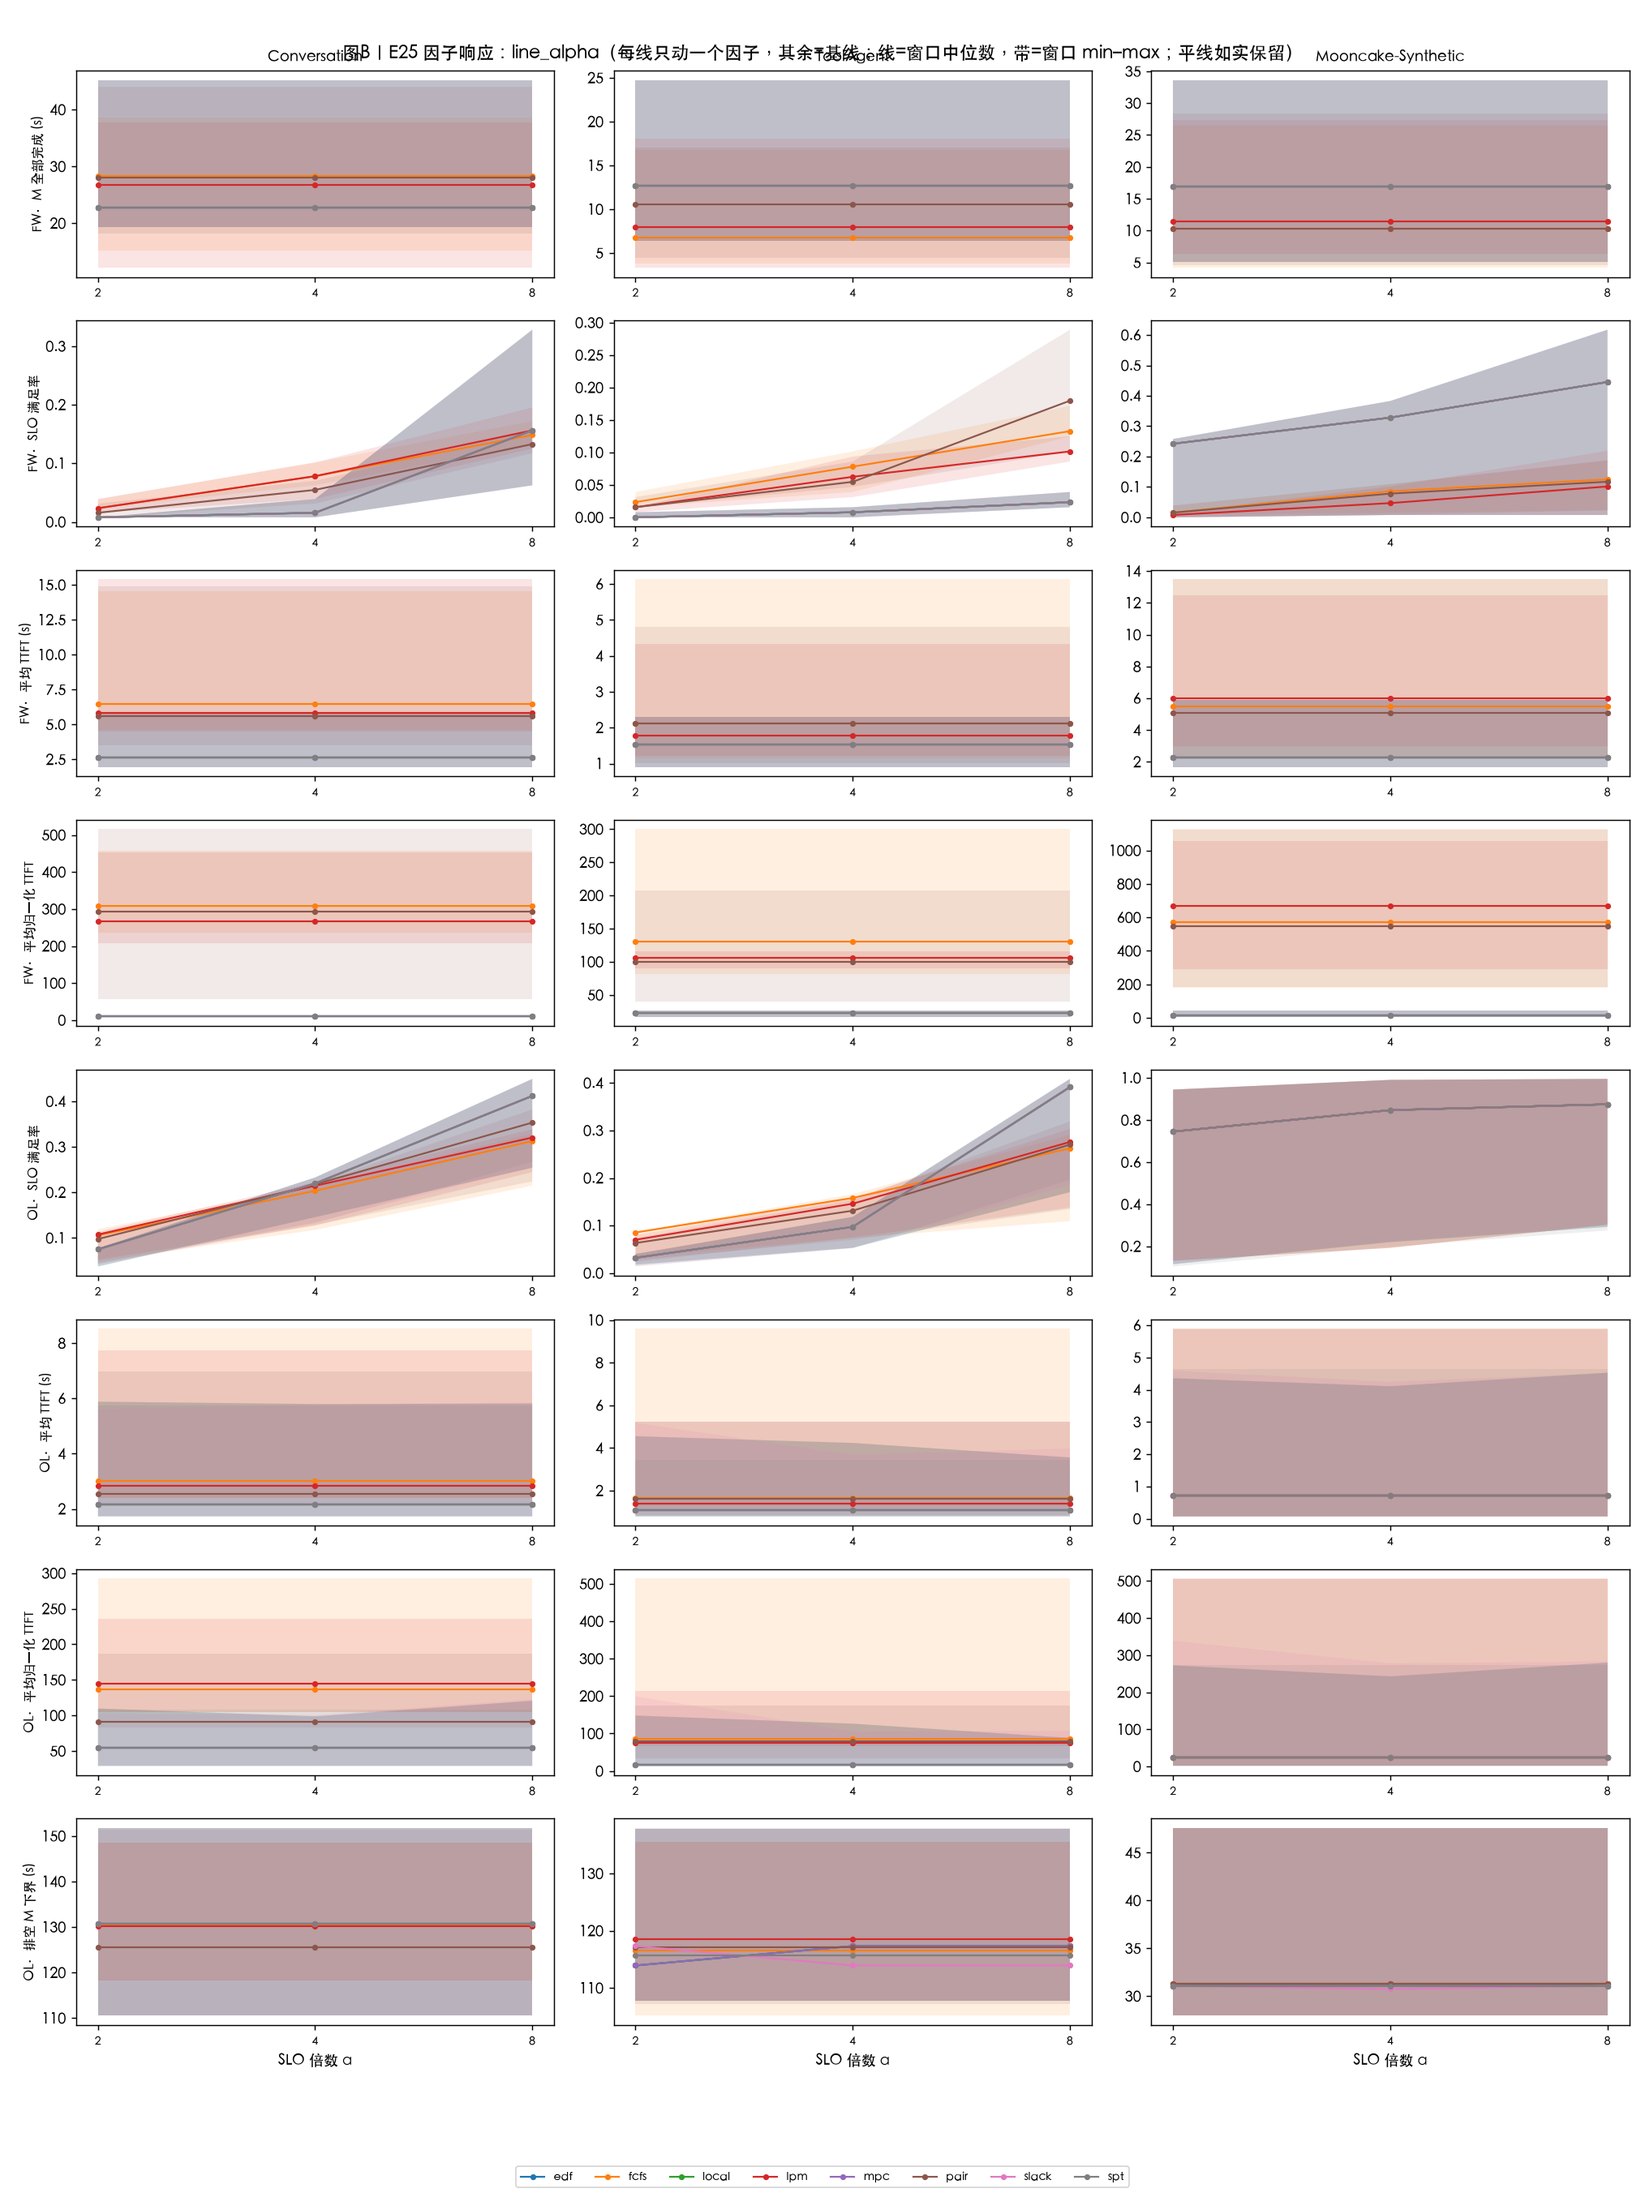
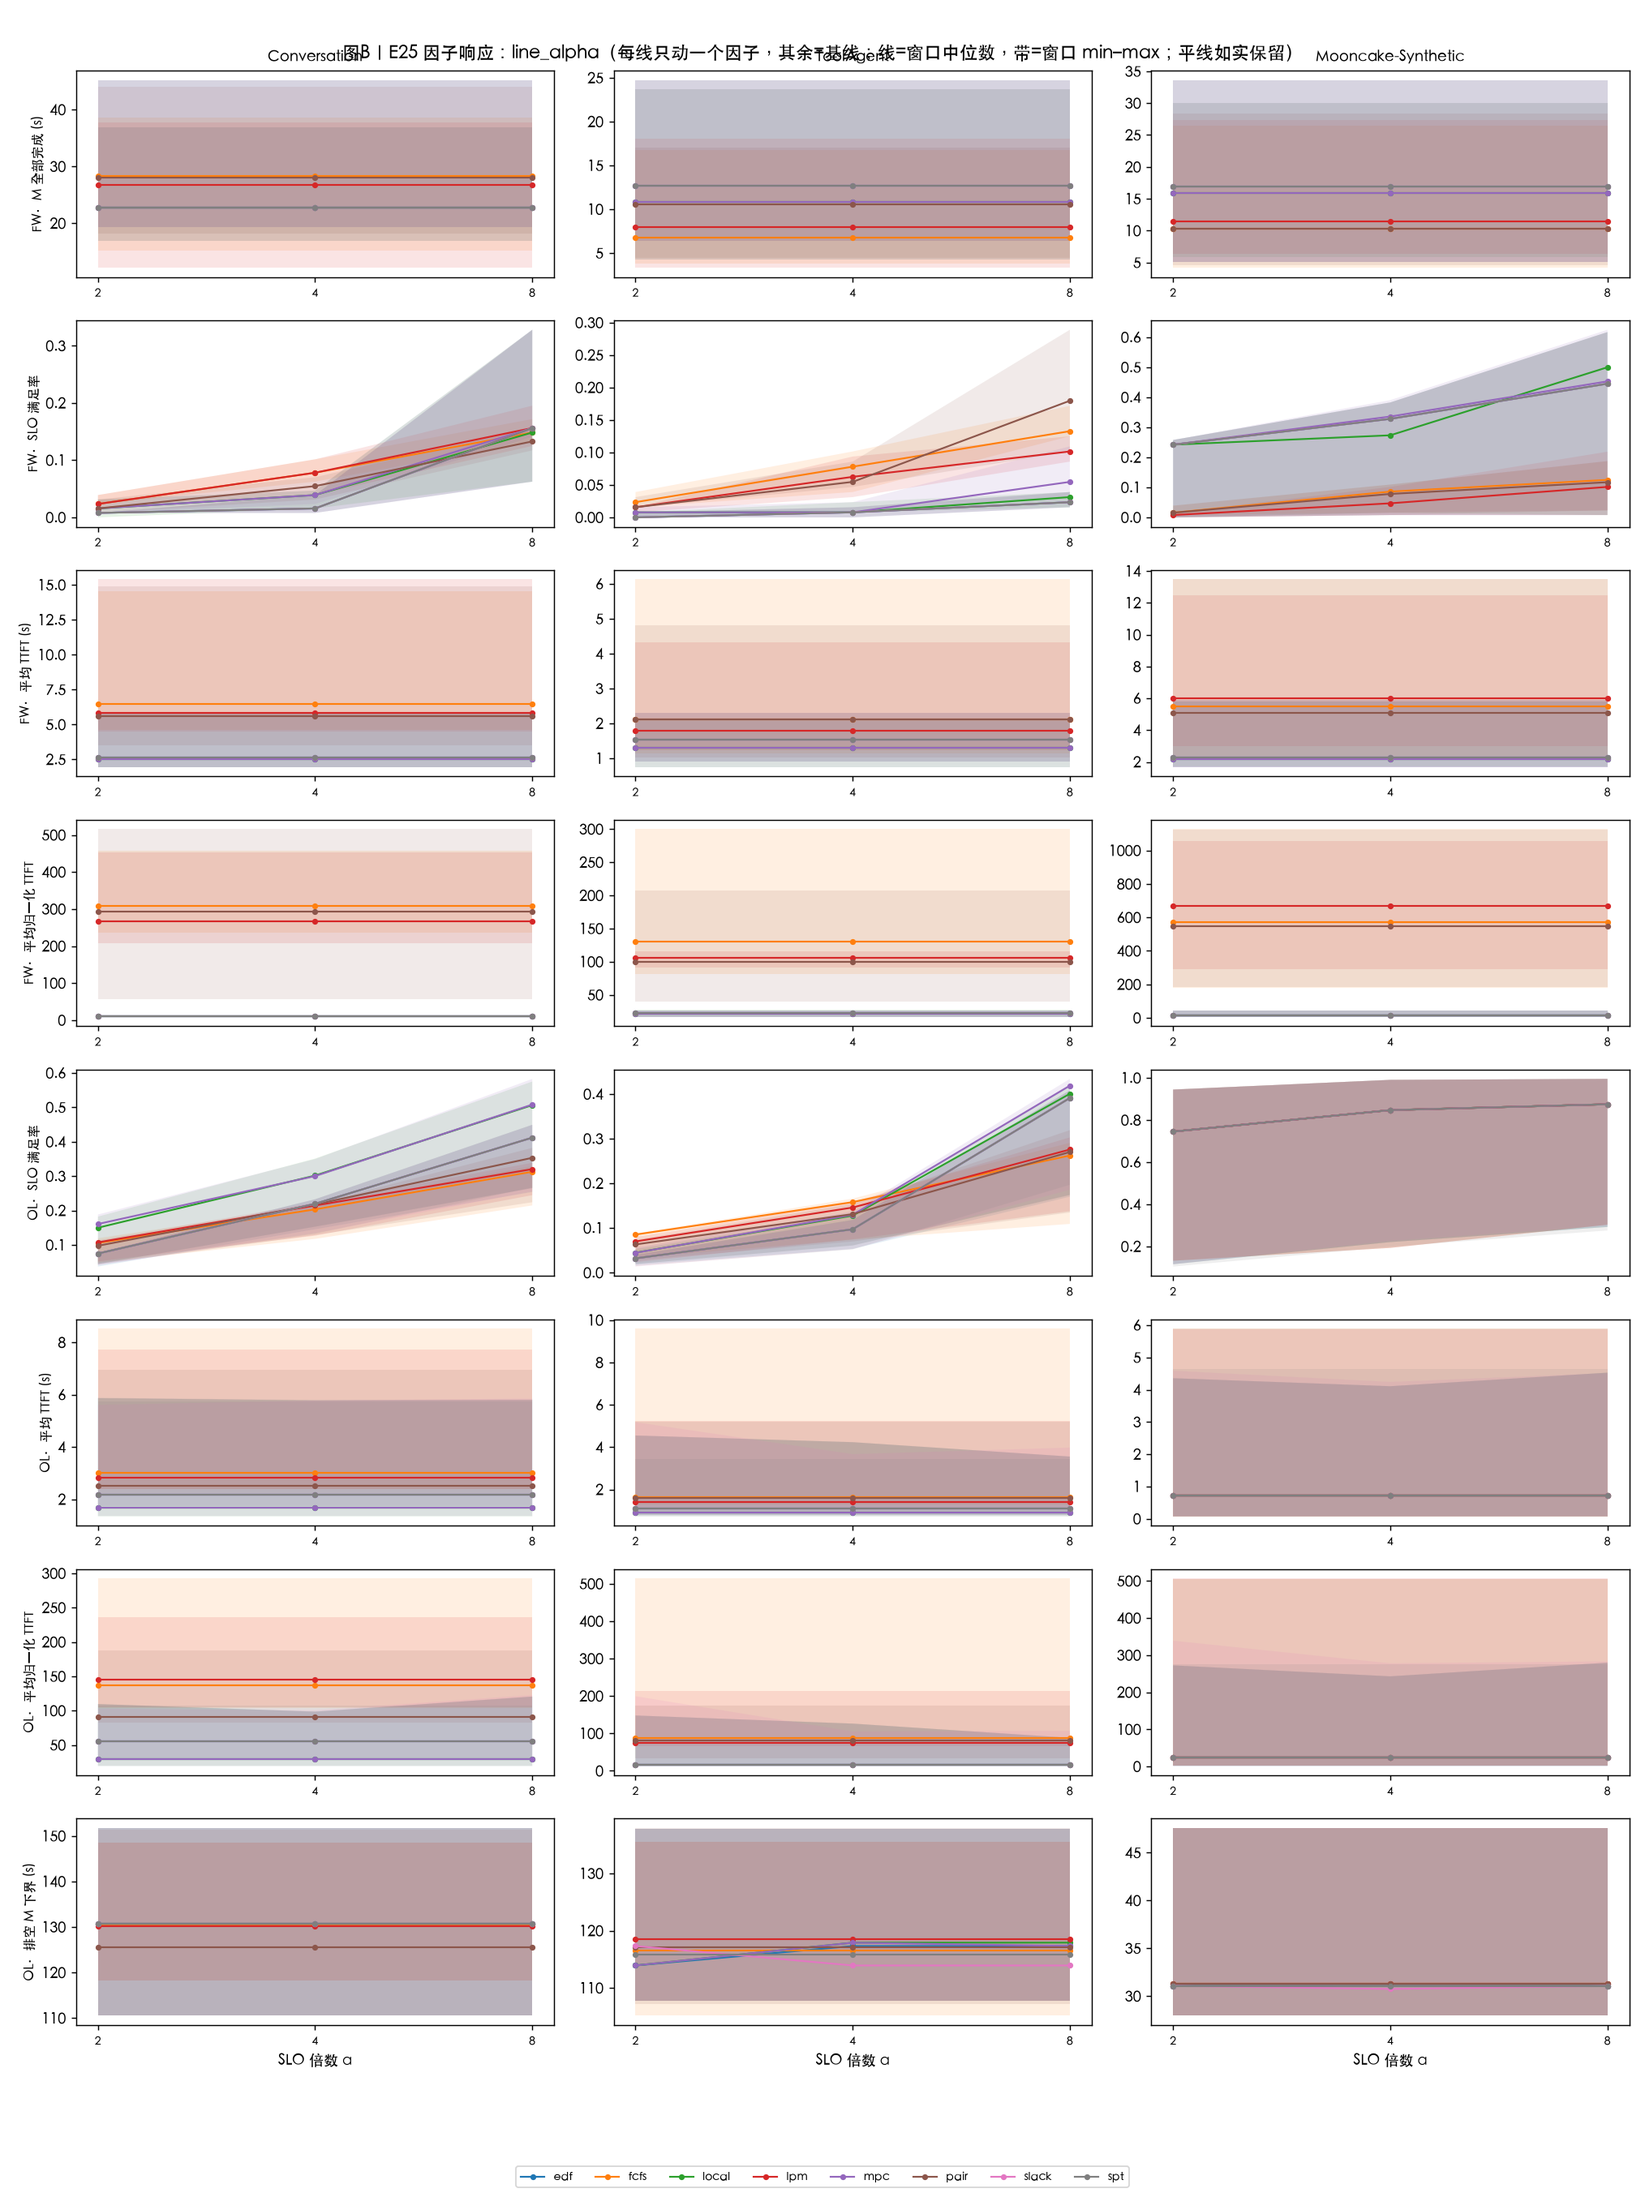
feat(e25.1): 修复后代码全矩阵重跑——MPC 理想上限档的完整收益地图与开销画像
应用户裁定：①全部数据改为修复后代码（code_rev=mpc-fixed-20260917，
修复前结果归档 e25_prefix_backup_20260916）；②MPC 改理想上限档
（CPU 预算放开 3600s，2 万事件保留为确定性硬界），每 run 落盘
ctrl_p50/p95_ms 与 n_scored/n_overrun；③规格附录记录 E25.1 变更。

重跑结果（7080 记录/0 invalid/255 格点，约 4.3 小时）：
- MPC vs EDF（θ 对应配对）：OL Conversation SLO +8.0pp/TTFT −22.0%、
  OL ToolAgent +3.3pp/−17.4%、FW ToolAgent/Synthetic M −6.2~−6.6%；
  Synthetic OL 仍无空间（队列空）；
- Conversation OL 上 MPC 首次全指标占优（SLO 0.300>FCFS 0.204、
  TTFT −43.8%、归一化 −78%、排空 M 持平）；ToolAgent 的 SLO 差距
  从 −6.1pp 缩至 −2.8pp；
- local 消融：OL 与 mpc 几乎同，FW Synthetic SLO 低 6.3pp——独立
  带宽评分在精细组批场合的乐观偏差显形；
- 因子结构：MPC 增益随 ρ 降而增（ρ=0.3 时 vs EDF +16.8%），
  过载收窄至 +0.6%——搜索的甜区是中低负载；
- 开销画像（§5.7）：决策 P50 39~90ms、P95 长尾 318ms~3.2s、
  评分候选中位 10~240——上限代价与启发式优化方向已量化。
报告 v3.0：§3.3/§4 分 trace 表加 mpc/local 行、§5.6 重写、新增 §5.7
开销、§7 搜索通道改为'已生效'、§8/§9/§11 同步；ts_deep 三图重出。
测试 147 passed。

diff --git a/sim/experiments/e25_factor.py b/sim/experiments/e25_factor.py
@@ -50,6 +50,7 @@ PROFILES = {
 }
 
 MIN_REQS = 16          # 窗口最小有效请求数（不足则记 skip，不静默缺失）
+MPC_BUDGET_S = 3600.0  # 20260917 重跑：MPC 理想上限档（CPU 放开，事件预算 2 万仍为硬界）
 TS_WINDOW_DEFAULT = 9  # 时间序列图默认窗口
 
 
@@ -192,13 +193,29 @@ def run_cell_specs(cell: dict, specs, d: str, records: list, progress: dict,
     thash = trace_hash(specs)[:16]
 
     def _one(pid, theta):
-        pol = build_policy(pid, theta, c_ref, H=1)
+        # MPC/local 用"理想上限"配置（20260917 重跑）：CPU 预算放开，
+        # 仅保留 2 万事件确定性硬界——衡量当前候选集/H=1 结构下的可达
+        # 上限；实际开销经 ctrl_p50/p95_ms 与 n_scored/n_overrun 落盘。
+        if pid in MPC_LIKE:
+            from sim.cq.search import MPCPolicy
+            pol = MPCPolicy(pid=pid, local=(pid == "cq_local"), H=1,
+                            theta=theta, c_ref=c_ref,
+                            budget_s=MPC_BUDGET_S)
+        else:
+            pol = build_policy(pid, theta, c_ref, H=1)
         if extra is not None and pid in SIMPLE_POLICIES:
             pol.feasibility_extra = extra
         eng = run_case(scn, specs, pol, numeric=float, seed=cell["window"],
                        record_intervals=True)
         s = summarize(eng, scn,
                       arrival_stop=(d_sim if cell["mode"] == "OL" else None))
+        ctrl = sorted(d["ctrl_s"] for d in eng.decisions) or [0.0]
+        s["ctrl_p50_ms"] = 1000.0 * ctrl[len(ctrl) // 2]
+        s["ctrl_p95_ms"] = 1000.0 * ctrl[max(0, int(0.95 * len(ctrl)) - 1)]
+        s["n_scored"] = getattr(pol, "n_scored", None)
+        s["n_overrun"] = getattr(pol, "n_overrun", None)
+        s["mpc_budget_s"] = (MPC_BUDGET_S if pid in MPC_LIKE else None)
+        s["code_rev"] = "mpc-fixed-20260917"
         bstat = _batch_stats(eng, scn, specs, med_h, med_u)
         ts_rel, delta, ovf = None, None, None
         if specs:

diff --git a/sim/cq/policies.py b/sim/cq/policies.py
@@ -128,7 +128,7 @@ class SimplePolicy:
         ra = ratio(a)
         if not self.r_ref:
             import math as _m
-            pos = [ratio(r.rid) for r in queued if ratio(r.rid)]
+            pos = [ratio(r) for r in queued if ratio(r)]
             self.r_ref = (_m.exp(sum(_m.log(x) for x in pos) / len(pos))
                           if pos else 1.0)
         r_ref = self.r_ref

diff --git a/docs/共享KV调度因子地图与时间序列-E25设计与测试规格-20260916.md b/docs/共享KV调度因子地图与时间序列-E25设计与测试规格-20260916.md
@@ -459,3 +459,9 @@ results/cq/<stage>/e25/
 E25 补两样东西。**第一张是全科成绩单**：四种评分标准（最快全部做完、按时交卷率、平均等待、小单相对等待）下八个策略的直接对拼，而且把考题难度（带宽、负载、交卷期限、合盘能力、合盘收益）一项一项拧动，画出"难度—成绩"曲线；其中"合盘收益"这根旋钮在真实考题下原来是锁死的（合盘不省工），我们特意造一把钥匙把它拧开，看合盘到底值不值。**第二样是考场录像**：把整场考试切成两百个小片段，每个片段记下四张桌子分别在"算题、等料、闲着"的比例，以及传送带送了多少料、还压着多少单——于是"错峰到底有没有用"不再是一个平均数，而是一段看得见的时间线。
 
 这套交付同时配三道质检：**BU 组**查录像机本身——一段 1.7 秒的等待切成五份，加起来必须还是 1.7 秒，一分不能丢、一分不能多，录像开机与否不能改变考试过程；**FM 组**查成绩单的登记——四个科目的分都要有，只拧一根难度旋钮时其他旋钮的读数不许悄悄变，同一份考卷所有学生的用纸量必须一样；**FG 组**查成绩单印刷——图上画的每一笔都得能从登记簿里原样查出来，新发的图表不许弄脏以前任何一张旧图。
+
+---
+
+## 附录：变更记录
+
+**20260917 · E25.1 重跑配置（用户裁定）**：MPC 审计发现两个实现缺陷（候选从已排空副本分支、WAIT 被推演丢弃）与一处空壳消融（cq_local），均已修复（commit `63c7f62`、`12a4a95`，回归测试 4 项）。据此全矩阵以修复后代码重跑，并按用户要求将 MPC 的搜索配置从"2ms CPU 软预算"改为**理想上限档**：`budget_s=3600`（CPU 放开），2 万事件预算保留为确定性硬界——衡量"当前候选集与 H=1 推演结构下的可达上限"；每 run 落盘 `ctrl_p50_ms/ctrl_p95_ms/n_scored/n_overrun/mpc_budget_s` 以统计实际调度开销。原 2ms 配置的行为由 §7.5 审计面板单独保留。修复前的首轮结果归档于 `results/cq/eval/e25_prefix_backup_20260916/`（gitignored）。
